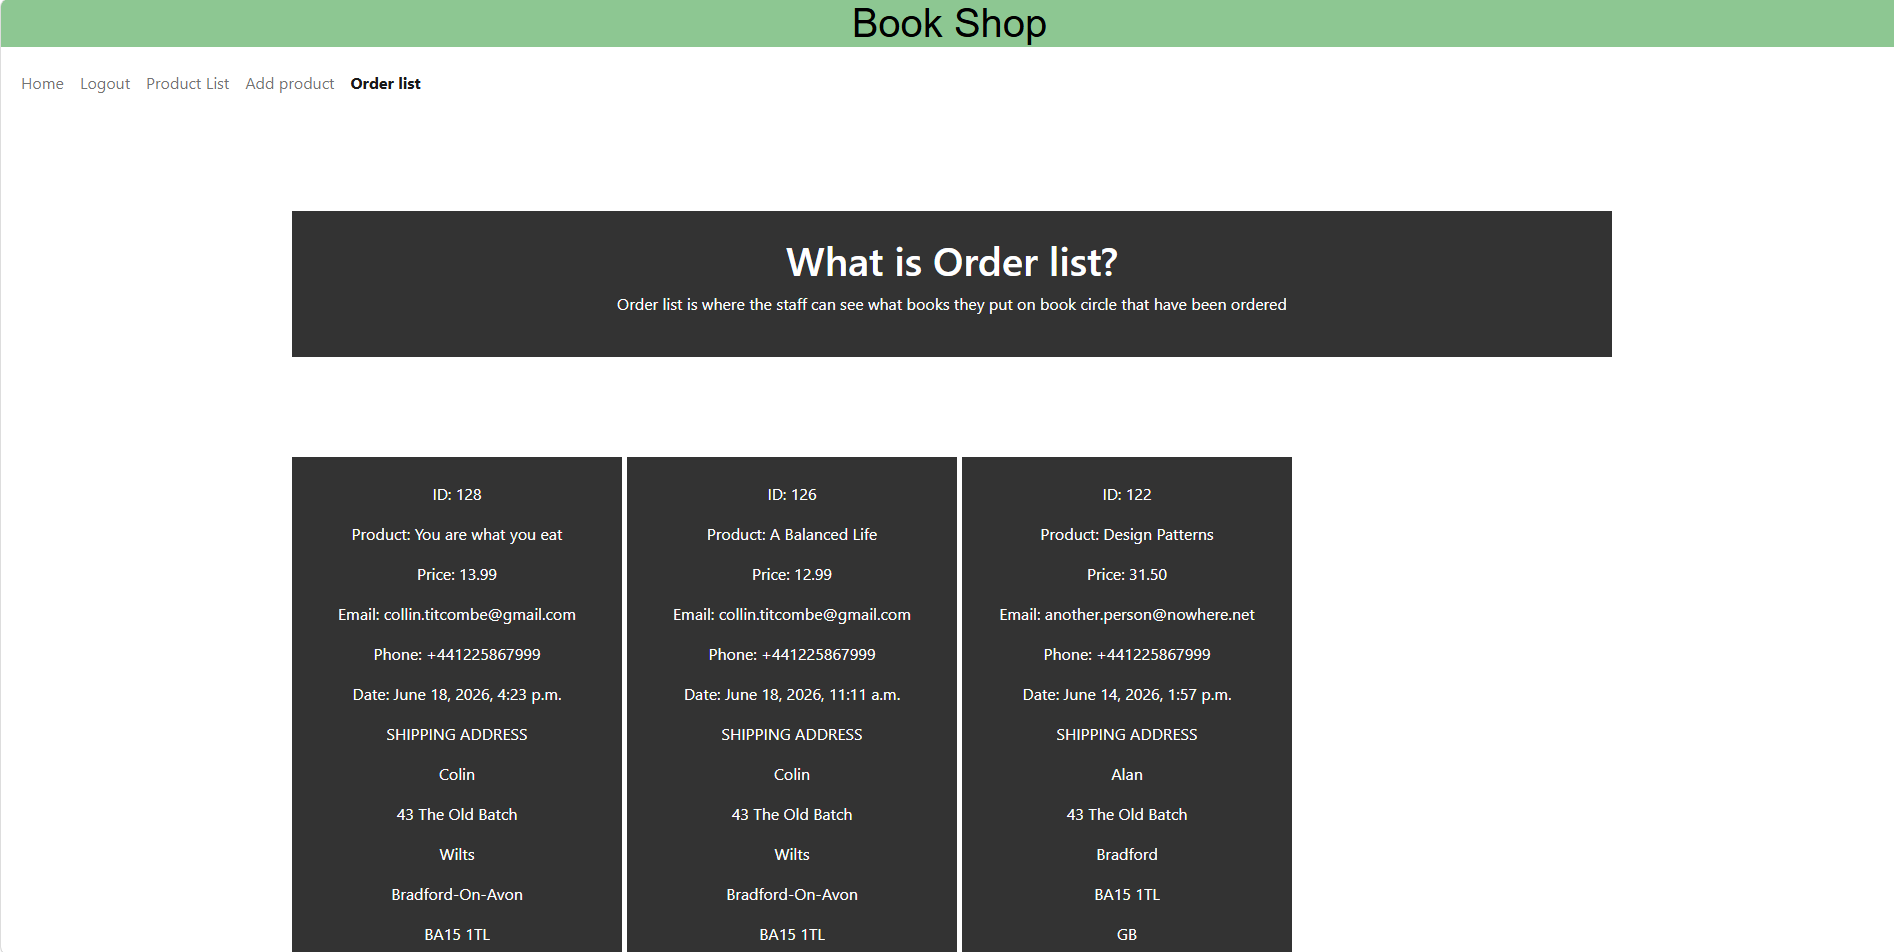
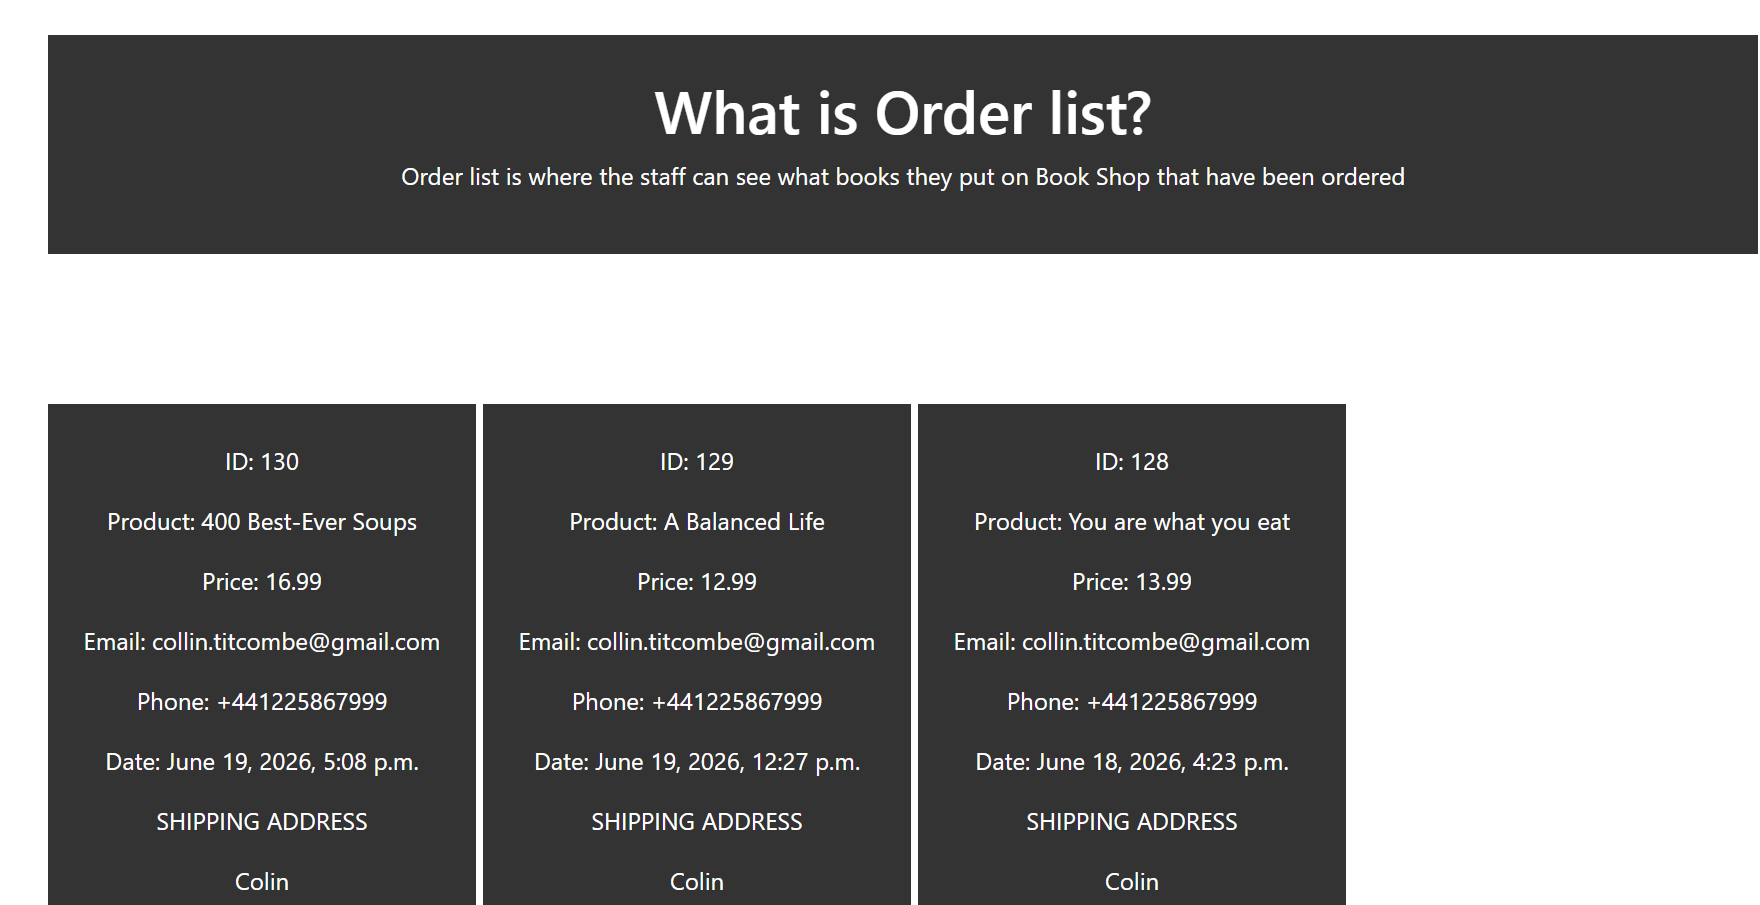
change book circle to book shop

diff --git a/edit_products/templates/order_list.html b/edit_products/templates/order_list.html
@@ -6,7 +6,7 @@
     <div class="row">
         <div class="col-12 detail_box margin_extra order_list_text">
             <h1>What is Order list?</h1>
-            <p>Order list is where the staff can see what books they put on book circle that have been ordered</p>
+            <p>Order list is where the staff can see what books they put on Book Shop that have been ordered</p>
         </div>
         {% for order in orders %}
         <div class="col-xl-3 col-lg-4 col-md-6 col-sm-12 detail_box margin_extra order_list_text">
